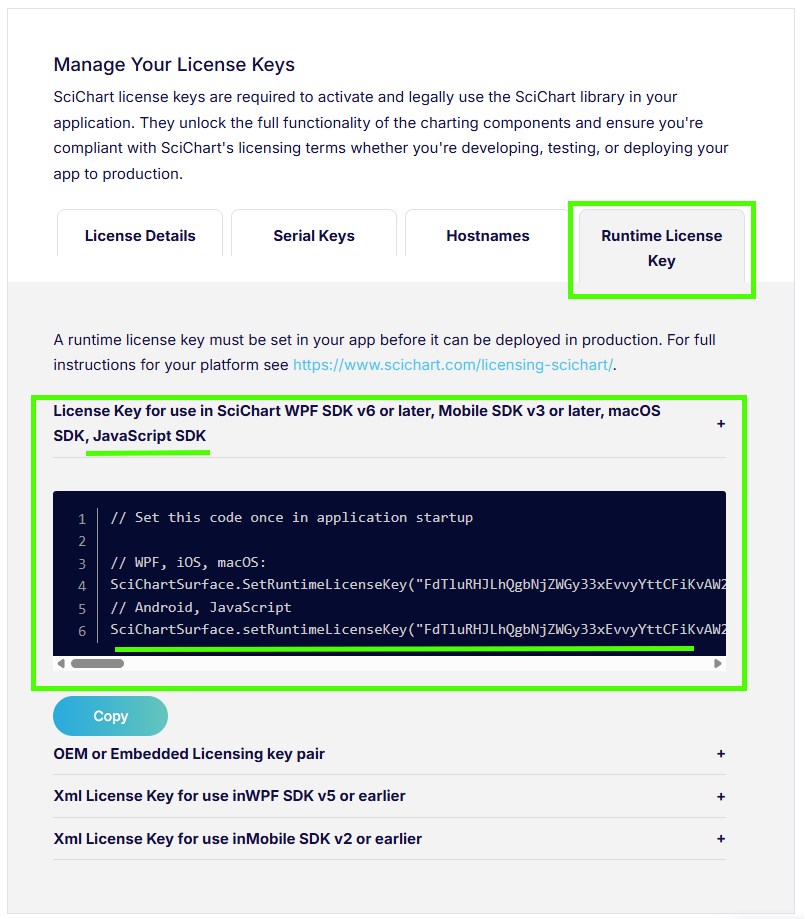
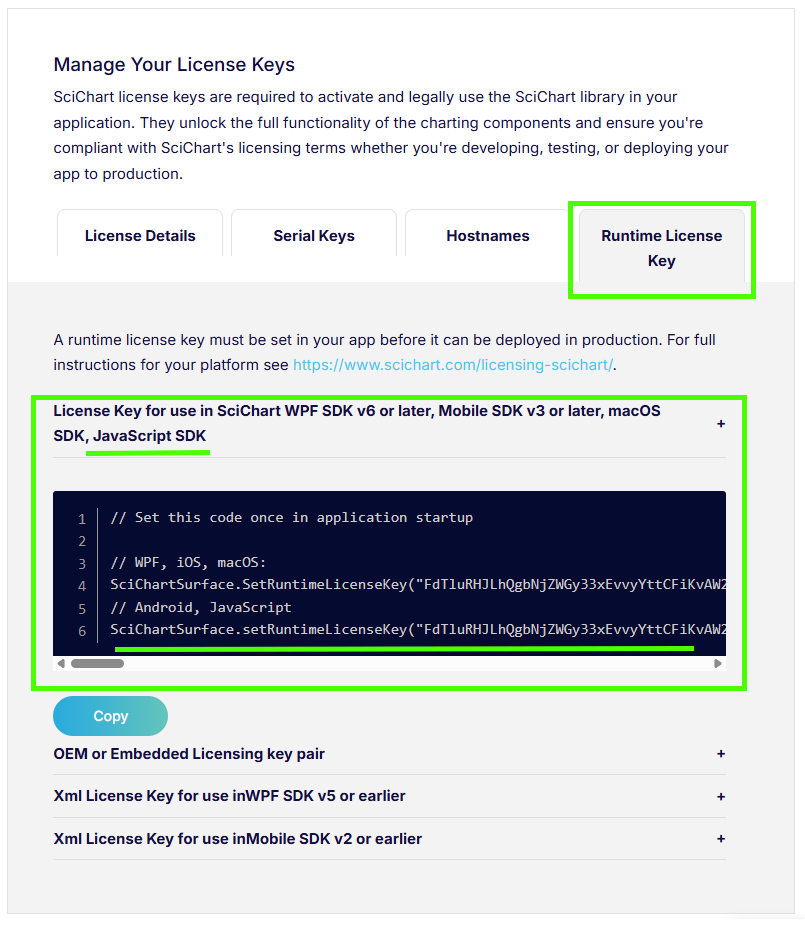
Added github link to scichart.js licensing docs

diff --git a/docusaurus/docs/user-manual/licensing-scichart-js/github-source-code-access/index.md b/docusaurus/docs/user-manual/licensing-scichart-js/github-source-code-access/index.md
@@ -3,3 +3,41 @@ sidebar_position: 7
 ---
 
 # Github Source Code Access
+
+:::info
+To access the source-code for scichart.js, you will need a source-code enabled product. Products purchased from our store that enable SciChart.js source-code access include:
+
+- SciChart Bundle 2D/3D Source (product code `SC-BUNDLE-SDK-ENTERPRISE`)
+
+For purchasing, please visit [scichart.com/shop](https://www.scichart.com/shop). For pre-sales enquiries [contact technical sales](https://www.scichart.com/contact-us/#pre-sales) and for licensing support post-sales please contact [technical support](https://www.scichart.com/contact-us/#tech-support).
+:::
+
+If you are a SciChart.js Source-Code customer, you can now access the source code via our [Github repository](https://www.scichart.com/github-repository-for-scichart-source-code-customers/).
+To get access, please follow the steps below:
+
+## Step 1: Activate your developer license
+
+You will need to activate a developer license for product code `SC-BUNDLE-SDK-ENTERPRISE` following the steps from [activating a paid developer license](/user-manual/licensing-scichart-js/activating-paid-licenses/)
+
+## Step 2: Link your github account
+
+You can now link your github account in the [scichart.com/my-account](https://www.scichart.com/my-account) page.
+
+1. Navigate to **My Account** - **Orders & Keys** - **Manage Licenses** for the source-code product you have purchased
+2. Under the **"License Details"** section, click the link **"Update your Github Account"**
+3. Submit a Github username, accept the terms and click submit
+
+![Link Github account to scichart source code order](/images/licensingtroubleshooting_github.png)
+
+![Link Github account to scichart source code order](/images/licensingtroubleshooting_github3.png)
+
+4. You should now be able to access the SciChart.js private Github repository at [github.com/ABTSoftware/SciChartJS](https://github.com/ABTSoftware/SciChartJS)
+
+![View SciChart.js private github repo with source code](/images/licensingtroubleshooting_github2.png)
+
+:::info
+The option to link your github account will only be available if you have a support-active, **activated source-code license** type (SciChart Bundle 2D/3D Source)
+:::
+:::warning
+If your support subscription expires and is not renewed, access to the github repos with SciChart source-code will be removed
+:::

diff --git a/docusaurus/docs/user-manual/licensing-scichart-js/activating-paid-licenses/index.md b/docusaurus/docs/user-manual/licensing-scichart-js/activating-paid-licenses/index.md
@@ -13,7 +13,7 @@ Products purchased from our store that enable SciChart.js developer licensing in
 - SciChart JS 2D & 3D
 - SciChart Bundle 2D Pro
 - SciChart Bundle 2D/3D Pro
-- Scichart Bundle 2D/3D Source
+- SciChart Bundle 2D/3D Source
 
 For purchasing, please visit [scichart.com/shop](https://www.scichart.com/shop). For pre-sales enquiries [contact technical sales](https://www.scichart.com/contact-us/#pre-sales) and for licensing support post-sales please contact [technical support](https://www.scichart.com/contact-us/#tech-support).
 :::

diff --git a/docusaurus/docs/user-manual/licensing-scichart-js/deploying-to-live-sites/index.md b/docusaurus/docs/user-manual/licensing-scichart-js/deploying-to-live-sites/index.md
@@ -14,7 +14,7 @@ Products purchased from our store that enable SciChart.js website domain licensi
 - SciChart JS 2D & 3D
 - SciChart Bundle 2D Pro
 - SciChart Bundle 2D/3D Pro
-- Scichart Bundle 2D/3D Source
+- SciChart Bundle 2D/3D Source
 
 For purchasing, please visit [scichart.com/shop](https://www.scichart.com/shop). For pre-sales enquiries [contact technical sales](https://www.scichart.com/contact-us#pre-sales) and for licensing support post-sales please [contact technical support](https://www.scichart.com/contact-us#tech-support).
 :::
